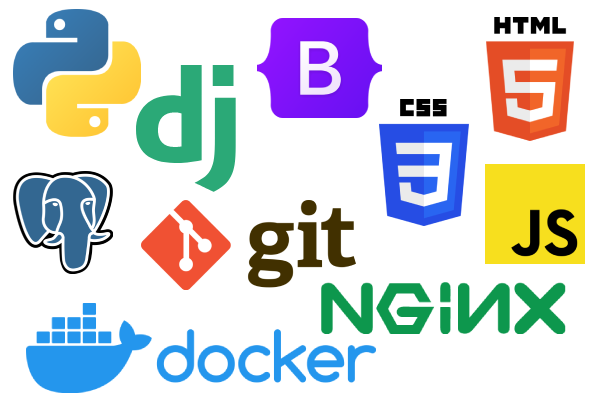
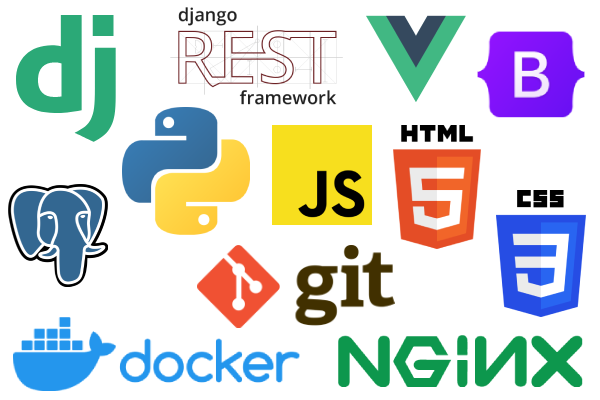
Update Home page

diff --git a/src/templates/main/index.html b/src/templates/main/index.html
@@ -76,11 +76,11 @@
         <ul class="list-group py-4">
           <li class="list-group-item border-0">
             <i class="far fa-check-circle text-success"></i>
-            <span>{% translate 'Building dynamic websites and web applications with latest technologies' %}</span>
+            <span>{% translate 'Front-end and Back-end development' %}</span>
           </li>
           <li class="list-group-item border-0">
             <i class="far fa-check-circle text-success"></i>
-            <span>{% translate 'Front-end and Back-end development' %}</span>
+            <span>{% translate 'Building dynamic websites and web applications with latest technologies' %}</span>
           </li>
           <li class="list-group-item border-0">
             <i class="far fa-check-circle text-success"></i>
@@ -178,7 +178,7 @@
       </div>
       <div class="ms-3">
         <h4 class="fw-bold mb-0">{% translate 'Latest Technologies' %}</h4>
-        <p class="lead mt-2">{% translate 'The websites are based on the popular Django and Bootstrap frameworks.' %}</p>
+        <p class="lead mt-2">{% translate 'The websites are based on the progressive Django, Vue.js and Bootstrap frameworks.' %}</p>
       </div>
     </div>
     <div class="col d-flex align-items-start">
